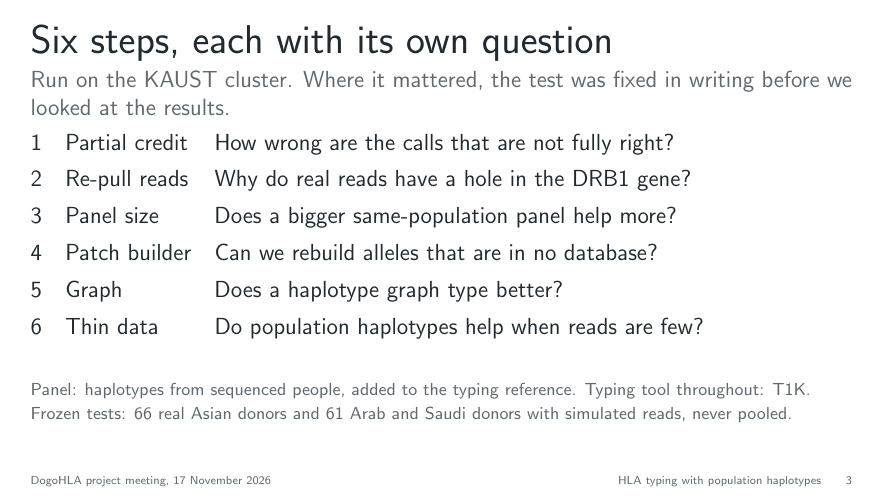
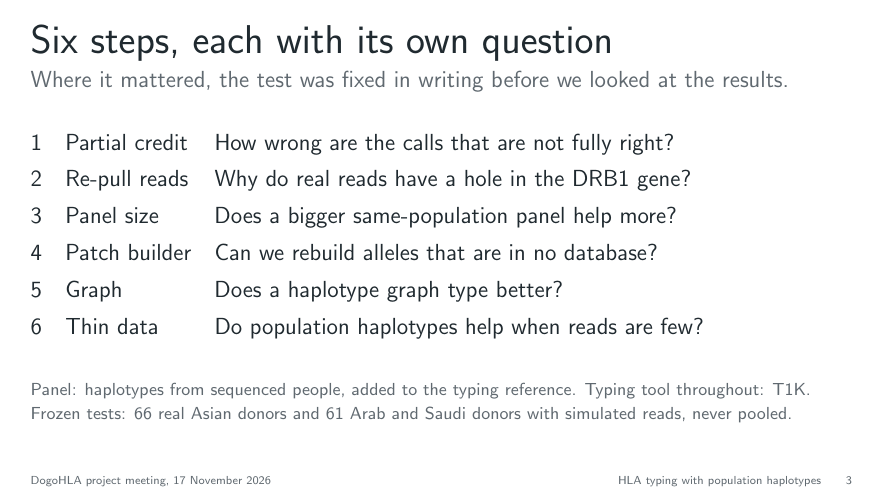
Drop cluster and job-handling details from the meeting slides

Changed region(s): [[0.0306, 0.1207, 0.9796, 0.1811], [0.0306, 0.2113, 0.2755, 0.2414]]

diff --git a/slide_prep/meeting-20261117/slides.tex b/slide_prep/meeting-20261117/slides.tex
@@ -87,7 +87,7 @@
 \begin{frame}[plain]
 \begin{canvas}
 \ttl{Six steps, each with its own question}
-\sub{Run on the KAUST cluster. Where it mattered, the test was fixed in writing before we looked at the results.}
+\sub{Where it mattered, the test was fixed in writing before we looked at the results.}
 \node[anchor=north west,inner sep=0,text=ink,font=\fontsize{11.5pt}{19pt}\selectfont] at (.55,6.75) {\begin{tabular}{@{}rll@{}}
 1 & Partial credit & How wrong are the calls that are not fully right?\\
 2 & Re-pull reads & Why do real reads have a hole in the DRB1 gene?\\
@@ -144,7 +144,7 @@
 
 % ---------------------------------------------------------------- 6 step 2 test
 % Step 2b table: P1 12->18 of 134 (+4.5 pp, 1.4 to 8.2); P3 38->45; P2i 861->868, 844->852 of 914;
-% P6 blind regions DRB1 103->0; strict reading 12->17; 4 builder tasks retried.
+% P6 blind regions DRB1 103->0; strict reading 12->17.
 \begin{frame}[plain]
 \begin{canvas}
 \ttl{Step 2: re-pulled reads pass the frozen test}
@@ -162,7 +162,7 @@
 \txt{8.7}{4.3}{6.8}{ink}{12}{Normal typing is not harmed};
 \txt{8.7}{3.75}{6.8}{muted}{10}{Correct four-field names: 861 to 868 of 914; with the Asian panel 844 to 852};
 \txt{8.7}{2.6}{6.8}{ink}{12}{All gains are in DRB1, DR53 group};
-\txt{.55}{1.75}{14.9}{muted}{9}{The builder is explained under step 4. One donor needed a rerun with more memory; counting that donor as failed gives 12 to 17, still above 0. Four builder runs were retried after timeouts on slow nodes.};
+\txt{.55}{1.75}{14.9}{muted}{9}{The builder is explained under step 4. A strict reading of the frozen plan, which counts one donor as failed, gives 12 to 17, still above 0.};
 \foot{6}
 \end{canvas}
 \end{frame}
